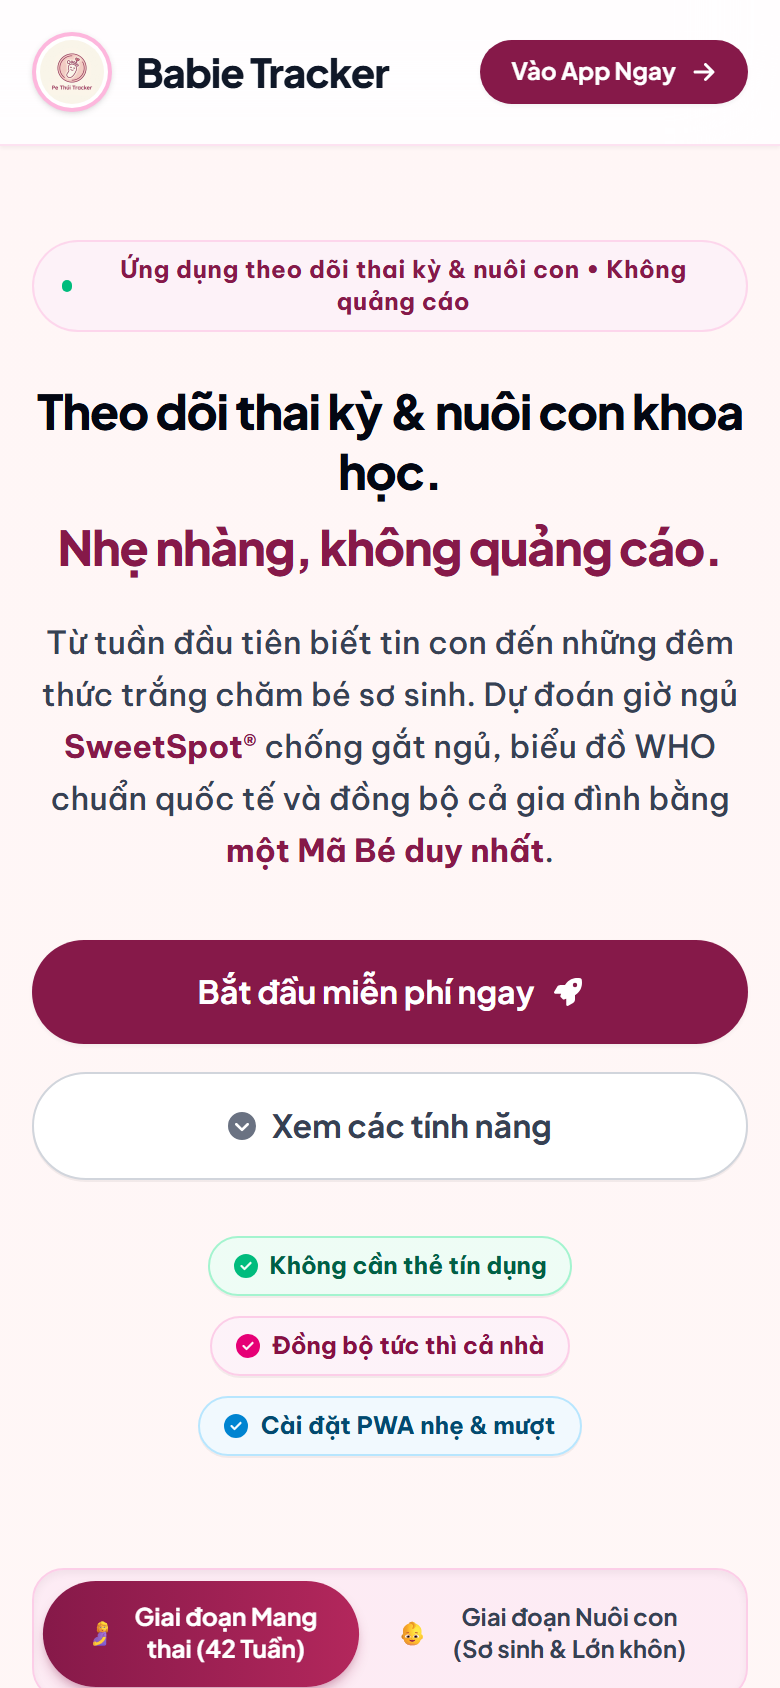
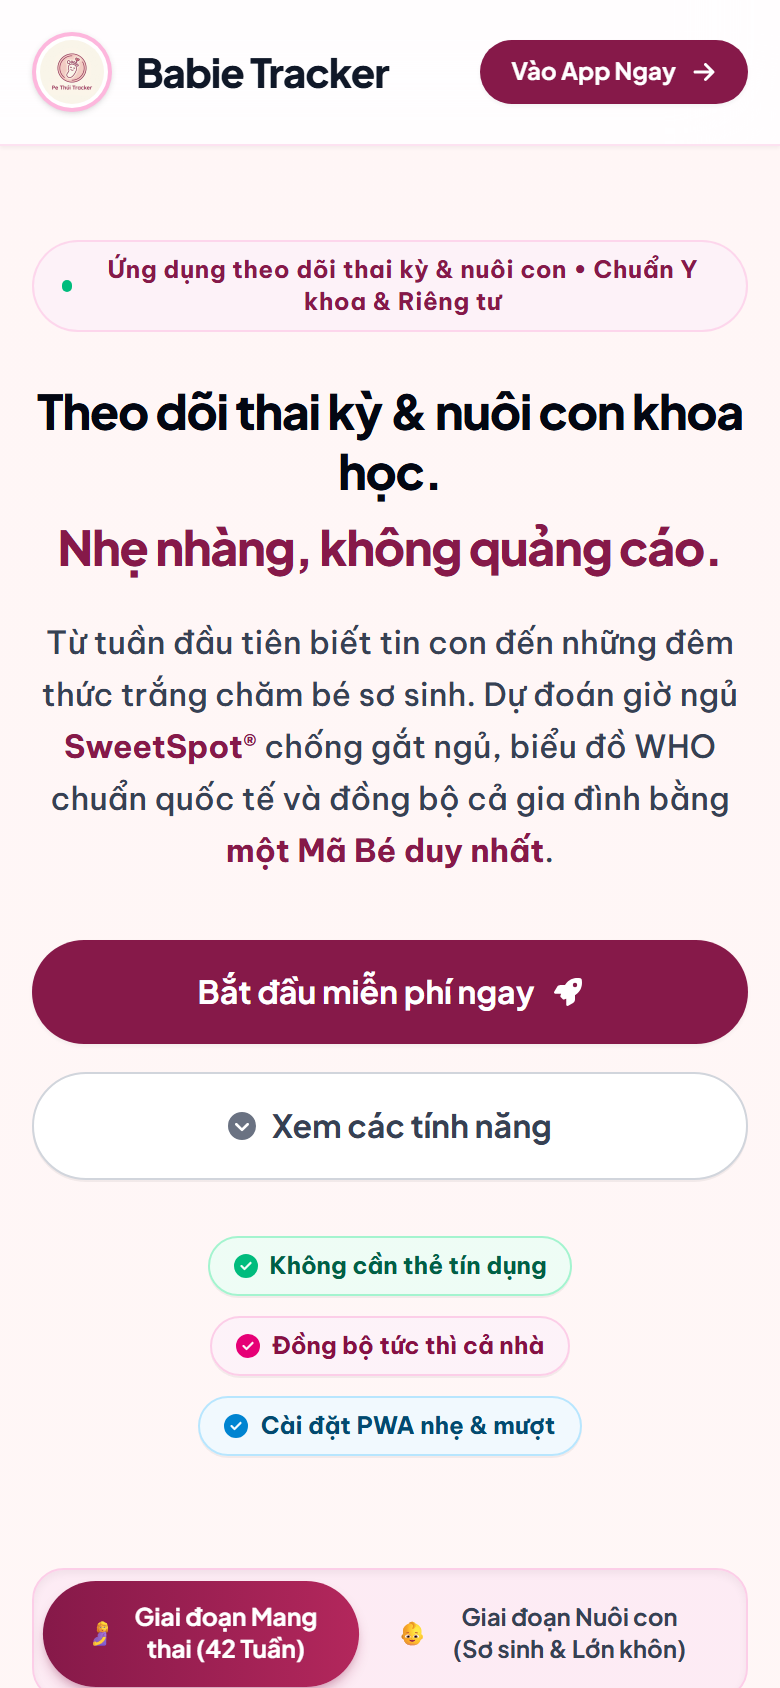
fix(landing): deduplicate ad-free messaging and refine trust badge copy

Changed region(s): [[0.1231, 0.154, 0.8923, 0.1848]]

diff --git a/pe-thui/app/landing/page.js b/pe-thui/app/landing/page.js
@@ -112,7 +112,7 @@ export default function LandingPage() {
                                 </span>
                             </div>
                             <span className="text-[11px] text-[#861949]/70 font-semibold hidden sm:block">
-                                Không quảng cáo • Đồng bộ cả nhà tức thì
+                                Đồng bộ gia đình • Riêng tư & Miễn phí
                             </span>
                         </div>
                     </Link>
@@ -210,7 +210,7 @@ export default function LandingPage() {
                         <div className="inline-flex items-center gap-2 px-3.5 py-1.5 rounded-full bg-pink-50 border border-pink-200/80 mb-6">
                             <span className="w-1.5 h-1.5 rounded-full bg-emerald-500"></span>
                             <span className="text-xs font-bold text-[#861949] tracking-wide">
-                                Ứng dụng theo dõi thai kỳ & nuôi con • Không quảng cáo
+                                Ứng dụng theo dõi thai kỳ & nuôi con • Chuẩn Y khoa & Riêng tư
                             </span>
                         </div>
 
@@ -1169,7 +1169,7 @@ export default function LandingPage() {
                         Bắt đầu hành trình chăm con an tâm ngay hôm nay
                     </h2>
                     <p className="text-sm sm:text-base text-gray-700 max-w-xl mx-auto mb-8 font-medium">
-                        Không cần đăng ký thẻ, không quảng cáo, mở ra là dùng ngay.
+                        Không cần đăng ký thẻ tín dụng, mở trình duyệt là dùng ngay.
                     </p>
 
                     <Link 
